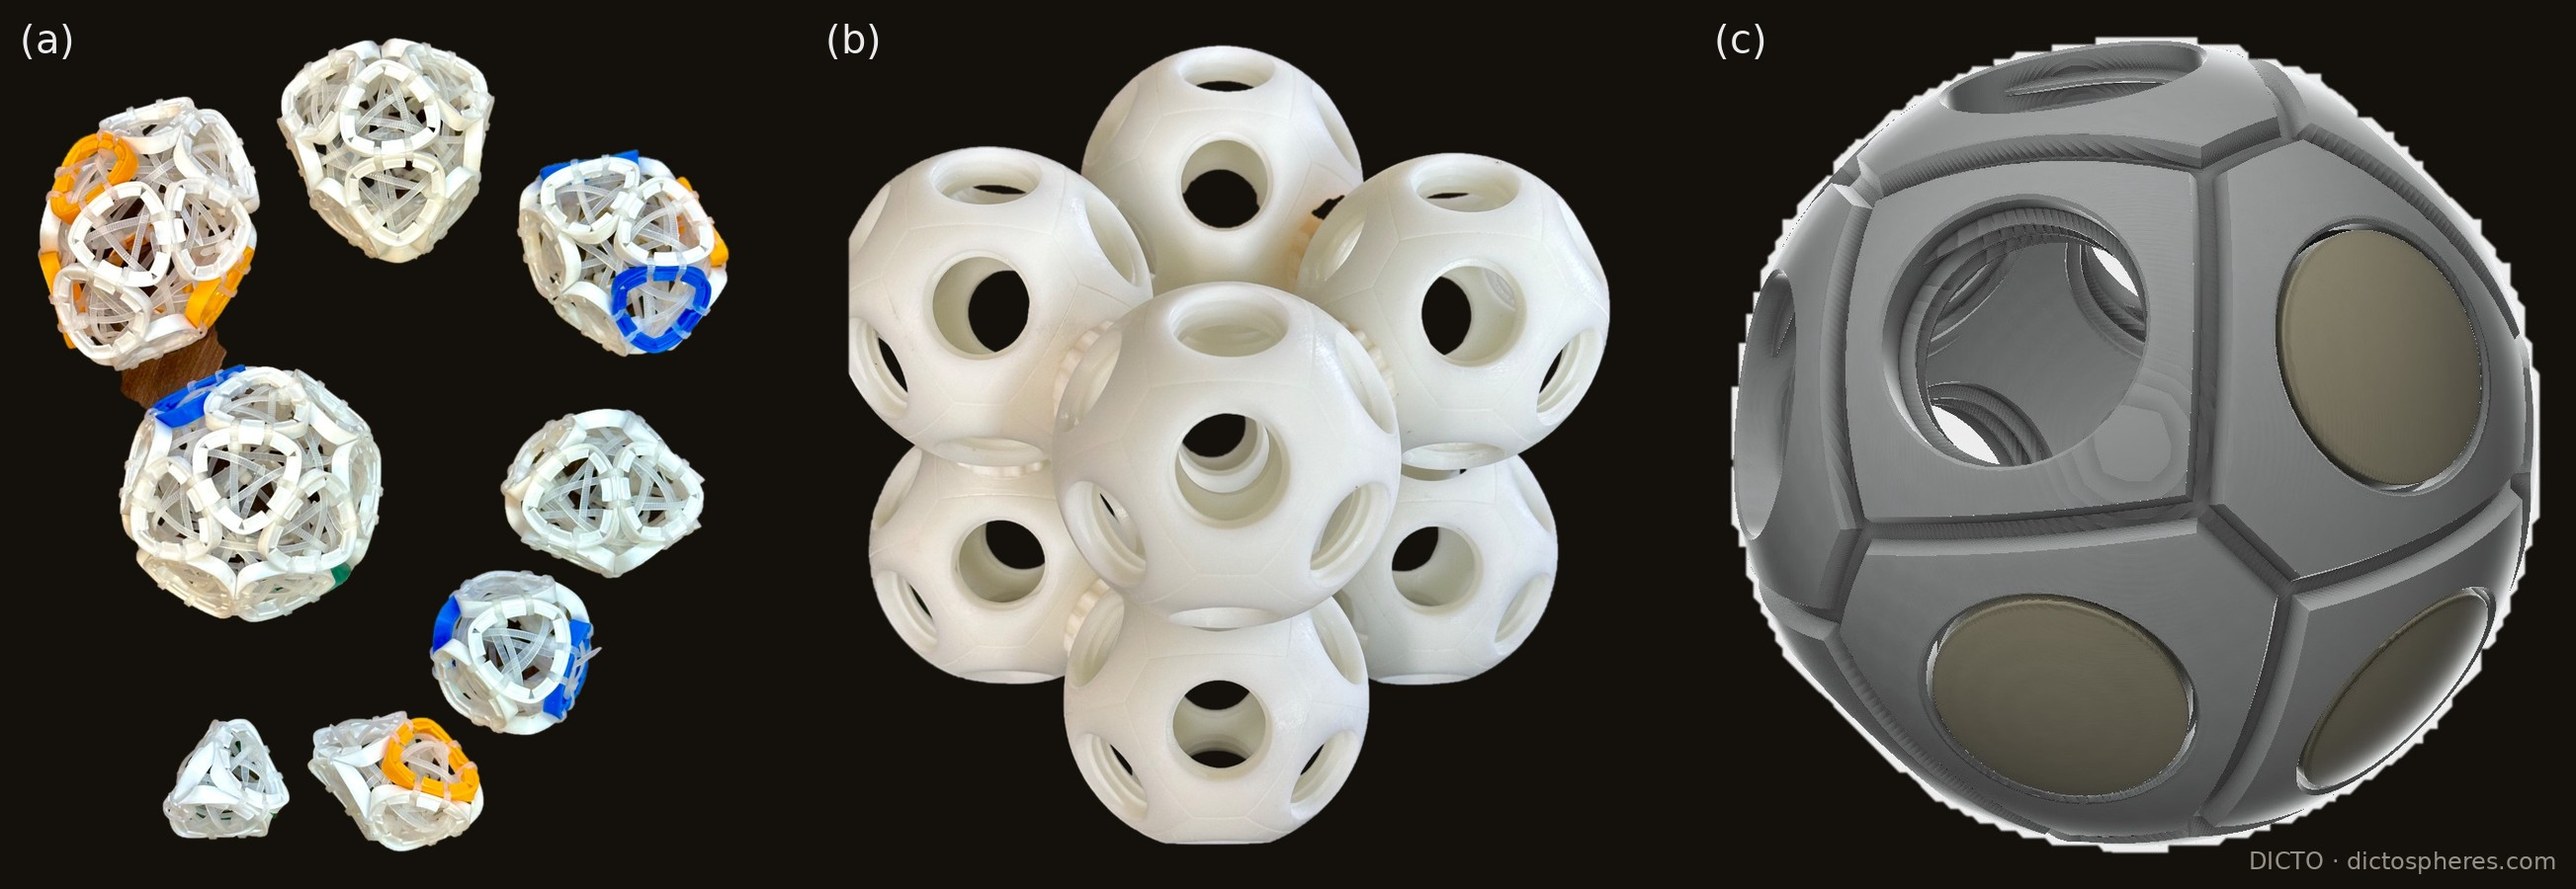
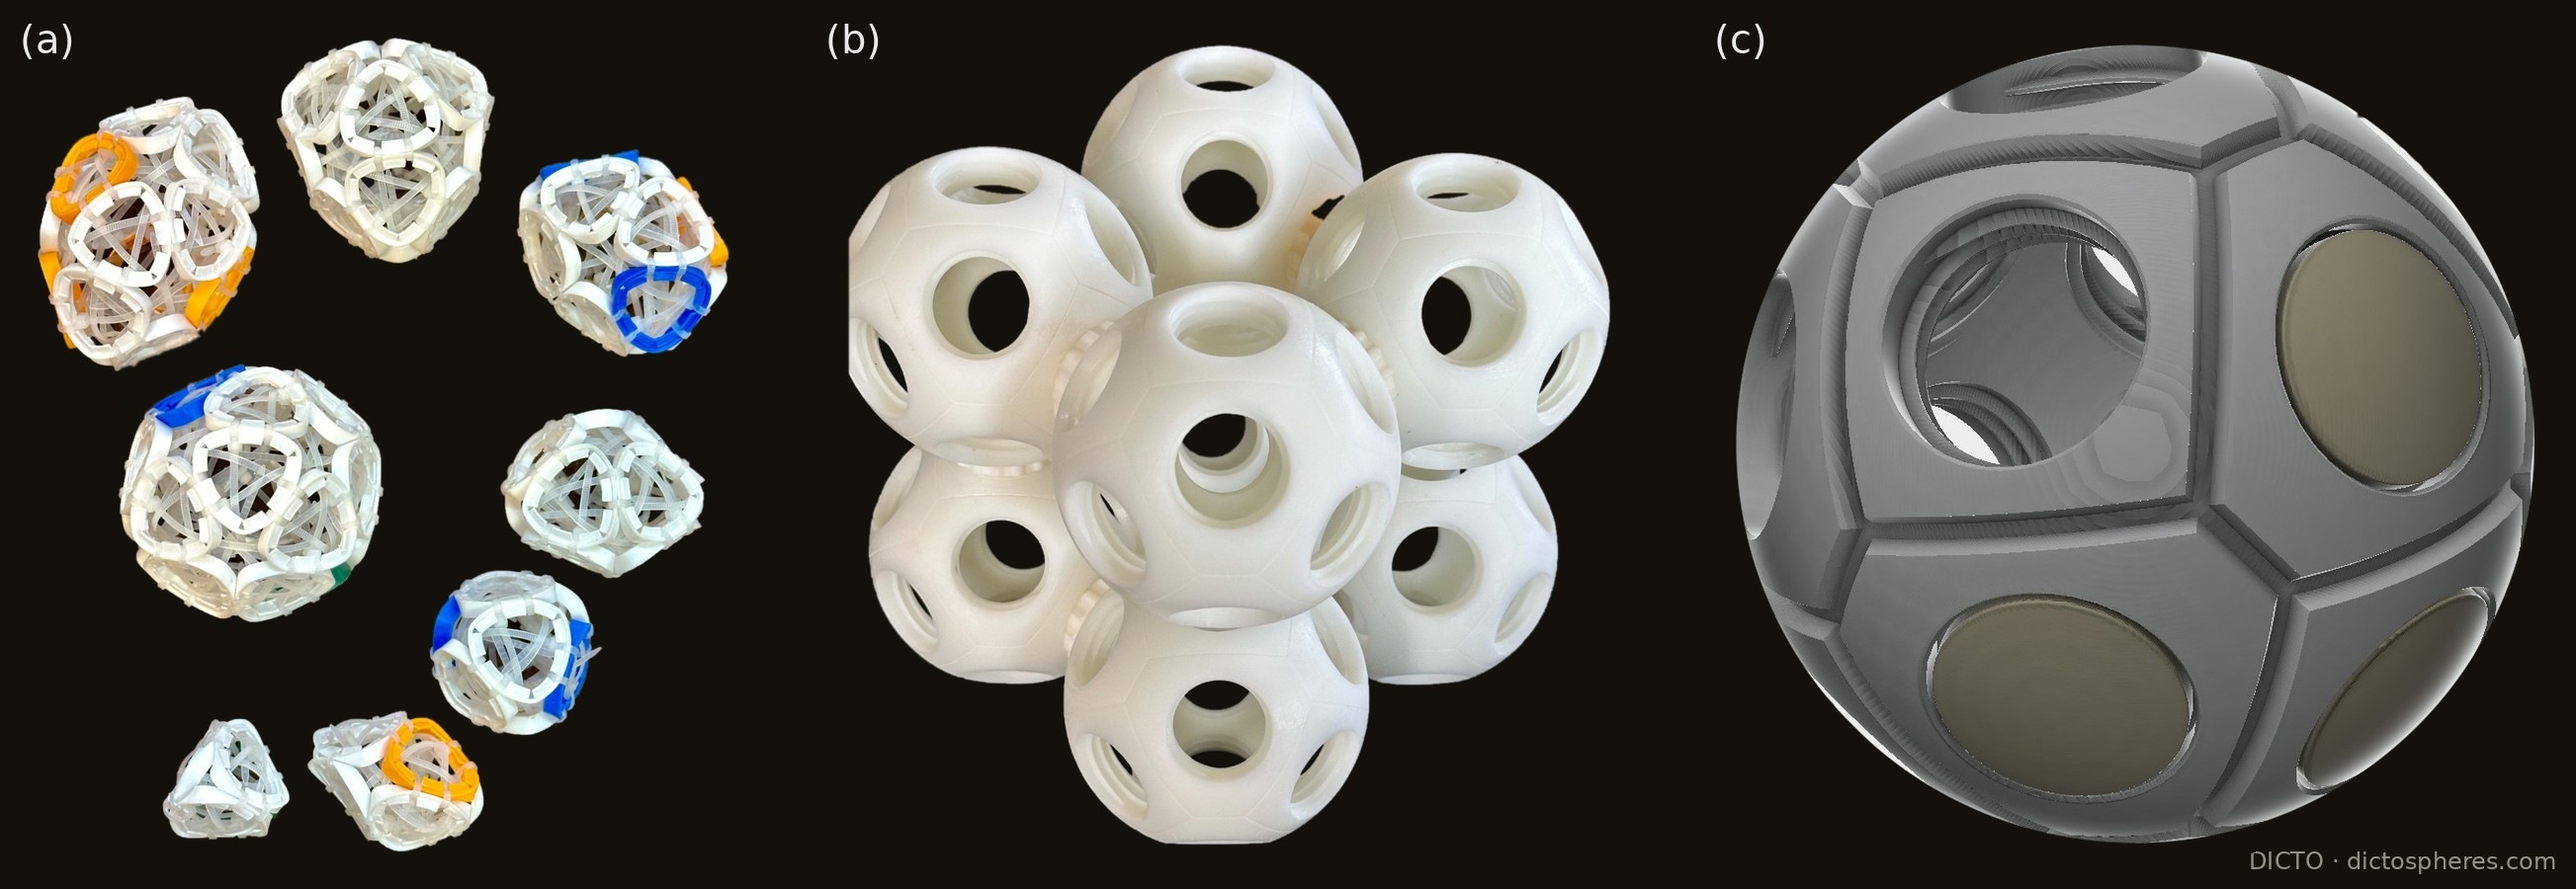
Photos of DICTO's work (#20 Fig 1 / Golden Ladder Fig 3A.1): clean circular outline on the dictosphere design, brown floor patch removed; Golden Ladder v4 draft

diff --git a/papers/book-golden-ladder/paper.html b/papers/book-golden-ladder/paper.html
@@ -51,8 +51,8 @@ body,h1,h2,h3,h4,.sub,.meta,figcaption,table,.status,ol.refs{font-family:"Nimbus
 <img class="logo" src="../dicto-logo.png" alt="DICTO">
 <h1>The Golden Ladder<br><span style="font-size:0.72em;font-weight:normal">Golden Cuts from Plato to the Eighth Dimension</span></h1>
 <div class="meta"><b>DICTO</b> (artist, Osaka, Japan) · contact@dictospheres.com · https://dictospheres.com · ORCID 0009-0001-2620-2036<br>
-Book · Version 3 · 6 November 2026 · DICTO DOI: 10.5281/zenodo.23966554 · Licence CC BY-SA 4.0 · Part of DICTO: Collected Geometric Works (DICTO DOI: 10.5281/zenodo.23345699)<br>Cover by DICTO: a ladder of golden rails whose rungs climb the dimensions: the truncated triangle with sides in the golden ratio (2D); Icosaxes and Unborn Axes (3D); the 120-cell (4D); and E8 as two 600-cells, one φ times the other, in the Coxeter plane (8D).</div>
-
+Book · Version 4 · 6 November 2026 · DICTO DOI: 10.5281/zenodo.23966554 · Licence CC BY-SA 4.0 · Part of DICTO: Collected Geometric Works (DICTO DOI: 10.5281/zenodo.23345699)<br>Cover by DICTO: a ladder of golden rails whose rungs climb the dimensions: the truncated triangle with sides in the golden ratio (2D); Icosaxes and Unborn Axes (3D); the 120-cell (4D); and E8 as two 600-cells, one φ times the other, in the Coxeter plane (8D).</div>
+<div class="status">DRAFT, version 4, for DICTO's read. Change from version 3: Figure 3A.1 (photographs of DICTO's work), panel (c): the rough cut-out outline round the dictosphere design replaced by a clean circular edge fitted to its silhouette; panel (a): the patch of brown floor under the DeltaZips removed. Nothing else changed. Delete this box at release.</div>
 <h2>Contents</h2><table class="toc"><tr><td><a href="#map">Map of the Ladder</a></td><td>opening</td></tr><tr><td><a href="#ch1">Chapter 1 · One Triangle, Three Numbers</a></td><td>opening chapter</td></tr><tr><td><a href="#ch2">Chapter 2 · Silence Is Golden</a></td><td>chapter</td></tr><tr><td><a href="#ch3A">Chapter 3A · The FUJI Family</a></td><td>#20</td></tr><tr><td><a href="#ch3B">Chapter 3B · The Golden Split: Icosahedra, Unborns and AXE Become Two Convex Space-Fillers</a></td><td>#48</td></tr><tr><td><a href="#ch4">Chapter 4 · Every Platonic Solid Has Exactly Two Golden Cuts</a></td><td>#88</td></tr><tr><td><a href="#ch5">Chapter 5 · The Red Queen 120-cell</a></td><td>#65</td></tr><tr><td><a href="#ch6">Chapter 6 · All Five Golden Pairs Are Slices of Four-Dimensional Solids</a></td><td>#89</td></tr><tr><td><a href="#ch7">Chapter 7 · Golden on the Octahedron, Silver on the Cube</a></td><td>#90</td></tr><tr><td><a href="#ch8">Chapter 8 · Four-Dimensional Solids Whose Every Cell Is a Golden Cut</a></td><td>#91</td></tr><tr><td><a href="#ch9">Chapter 9 · The Top Rung: E8 and Its Golden Twist</a></td><td>closing chapter</td></tr></table>
 <div class="chapter"><h1 id="map">Map of the Ladder</h1>
 

diff --git a/studies/2026-10-14-fuji-family/scripts/clean_fig0.py b/studies/2026-10-14-fuji-family/scripts/clean_fig0.py
@@ -1,0 +1,44 @@
+# DICTO 11-06: "dodgy rough blackout lines" on the photos of his work (Figure 1 of #20; Figure 3A.0 of The Golden Ladder).
+# Panel (c), the dictosphere design, was cut from its background with a jagged white halo. Its outline is a circle: fit the circle
+# to the silhouette (least squares on the edge points), then repaint a ring round it with the ground colour and an anti-aliased edge,
+# inset past the halo. Nothing inside the sphere and nothing outside the ring (the DICTO mark) is touched. Source kept as -orig.
+import numpy as np
+from PIL import Image
+from scipy import ndimage
+src = 'paper/figures/fig0-dicto-work-orig.jpg'; out = 'paper/figures/fig0-dicto-work.jpg'
+A = np.array(Image.open(src).convert('RGB'), float); H, W, _ = A.shape
+G = A[5, 5].copy()
+x0 = 1740                                            # panel (c) starts here
+sub = A[:, x0:]
+fg = np.abs(sub - G).sum(2) > 60
+fg = ndimage.binary_opening(fg, iterations=2)
+lab, n = ndimage.label(fg); big = lab == (np.argmax(np.bincount(lab.ravel())[1:]) + 1)
+big = ndimage.binary_fill_holes(big)
+edge = big ^ ndimage.binary_erosion(big)
+ys, xs = np.nonzero(edge)
+# algebraic circle fit x^2+y^2+Dx+Ey+F=0
+M = np.c_[xs, ys, np.ones_like(xs)]; b = -(xs ** 2 + ys ** 2)
+D, E, F = np.linalg.lstsq(M, b, rcond=None)[0]; cx, cy = -D / 2, -E / 2; R = np.sqrt(cx ** 2 + cy ** 2 - F)
+d = np.hypot(*np.meshgrid(np.arange(sub.shape[1]) - cx, np.arange(H) - cy))
+res = np.abs(np.hypot(xs - cx, ys - cy) - R)
+print(f'circle centre ({cx + x0:.1f}, {cy:.1f}) R {R:.1f}; edge residual median {np.median(res):.2f} px, 90% {np.percentile(res, 90):.2f} px')
+inset = 9.0                                          # past the halo (measured 6-10 px)
+r0 = R - inset
+alpha = np.clip(r0 + 0.75 - d, 0, 1.5) / 1.5          # 1 inside, 0 outside, ~1.5 px soft edge
+ring = (d > r0 - 2) & (d < R + 18)                   # repaint only this ring
+new = sub * alpha[..., None] + G * (1 - alpha[..., None])
+sub2 = np.where(ring[..., None], new, sub)
+A[:, x0:] = sub2
+# DICTO 11-06: "there was a bit of brown floor or table on the deltahedrons photo": panel (a), the brown patch under the DeltaZips
+# (box x 60-300, y 280-460): brownish pixels (red > green >= blue, not bright), components > 300 px, grown 2 px, painted with the ground.
+y0, y1, x1_, x0_ = 280, 460, 300, 60
+S = A[y0:y1, x0_:x1_]; r, g, b_ = S[..., 0], S[..., 1], S[..., 2]; mx = S.max(2); mn = S.min(2)
+brown = (r > g + 8) & (g >= b_ - 5) & (mx < 170) & (mx > 35) & ((mx - mn) > 18)
+brown = ndimage.binary_closing(ndimage.binary_opening(brown, iterations=1), iterations=2)
+lab, n = ndimage.label(brown); sz = np.bincount(lab.ravel())
+keep = ndimage.binary_dilation(np.isin(lab, [i for i in range(1, n + 1) if sz[i] > 300]), iterations=2)
+soft = ndimage.gaussian_filter(keep.astype(float), 1.0)
+A[y0:y1, x0_:x1_] = S * (1 - soft[..., None]) + G * soft[..., None]
+print('panel (a) brown patch px', int(keep.sum()))
+Image.fromarray(np.clip(A, 0, 255).astype(np.uint8)).save(out, quality=93)
+print('saved', out)

diff --git a/papers/book-golden-ladder/assemble.py b/papers/book-golden-ladder/assemble.py
@@ -87,7 +87,7 @@ css = '\n'.join(sorted(styles)) + '''
 table.toc td{border-bottom:1px dotted #ccc;padding:1.2mm 2mm} table.toc a{color:inherit;text-decoration:none}
 figure img, .figs img{max-width:100%}
 body,h1,h2,h3,h4,.sub,.meta,figcaption,table,.status,ol.refs{font-family:"Nimbus Sans","Liberation Sans","DejaVu Sans",sans-serif}'''
-status = ''   # deleted at release (v3 released 6 November 2026 after DICTO's read ok: cover re-laid, subtitle to the eighth dimension)
+status = '<div class="status">DRAFT, version 4, for DICTO\'s read. Change from version 3: Figure 3A.1 (photographs of DICTO\'s work), panel (c): the rough cut-out outline round the dictosphere design replaced by a clean circular edge fitted to its silhouette; panel (a): the patch of brown floor under the DeltaZips removed. Nothing else changed. Delete this box at release.</div>'   # v3 released 6 November 2026 (Zenodo 24000692)
 doc = f'''<!doctype html>
 <html lang="en"><head><meta charset="utf-8"><title>The Golden Ladder</title>
 <link rel="stylesheet" href="../paper.css"><style>{css}</style></head><body>
@@ -97,7 +97,7 @@ doc = f'''<!doctype html>
 <img class="logo" src="../dicto-logo.png" alt="DICTO">
 <h1>The Golden Ladder<br><span style="font-size:0.72em;font-weight:normal">Golden Cuts from Plato to the Eighth Dimension</span></h1>
 <div class="meta"><b>DICTO</b> (artist, Osaka, Japan) · contact@dictospheres.com · https://dictospheres.com · ORCID 0009-0001-2620-2036<br>
-Book · Version 3 · 6 November 2026 · DICTO DOI: 10.5281/zenodo.23966554 · Licence CC BY-SA 4.0 · Part of DICTO: Collected Geometric Works (DICTO DOI: 10.5281/zenodo.23345699)<br>Cover by DICTO: a ladder of golden rails whose rungs climb the dimensions: the truncated triangle with sides in the golden ratio (2D); Icosaxes and Unborn Axes (3D); the 120-cell (4D); and E8 as two 600-cells, one φ times the other, in the Coxeter plane (8D).</div>
+Book · Version 4 · 6 November 2026 · DICTO DOI: 10.5281/zenodo.23966554 · Licence CC BY-SA 4.0 · Part of DICTO: Collected Geometric Works (DICTO DOI: 10.5281/zenodo.23345699)<br>Cover by DICTO: a ladder of golden rails whose rungs climb the dimensions: the truncated triangle with sides in the golden ratio (2D); Icosaxes and Unborn Axes (3D); the 120-cell (4D); and E8 as two 600-cells, one φ times the other, in the Coxeter plane (8D).</div>
 {status}
 {tochtml}
 <div class="chapter">{mapbody}</div>
